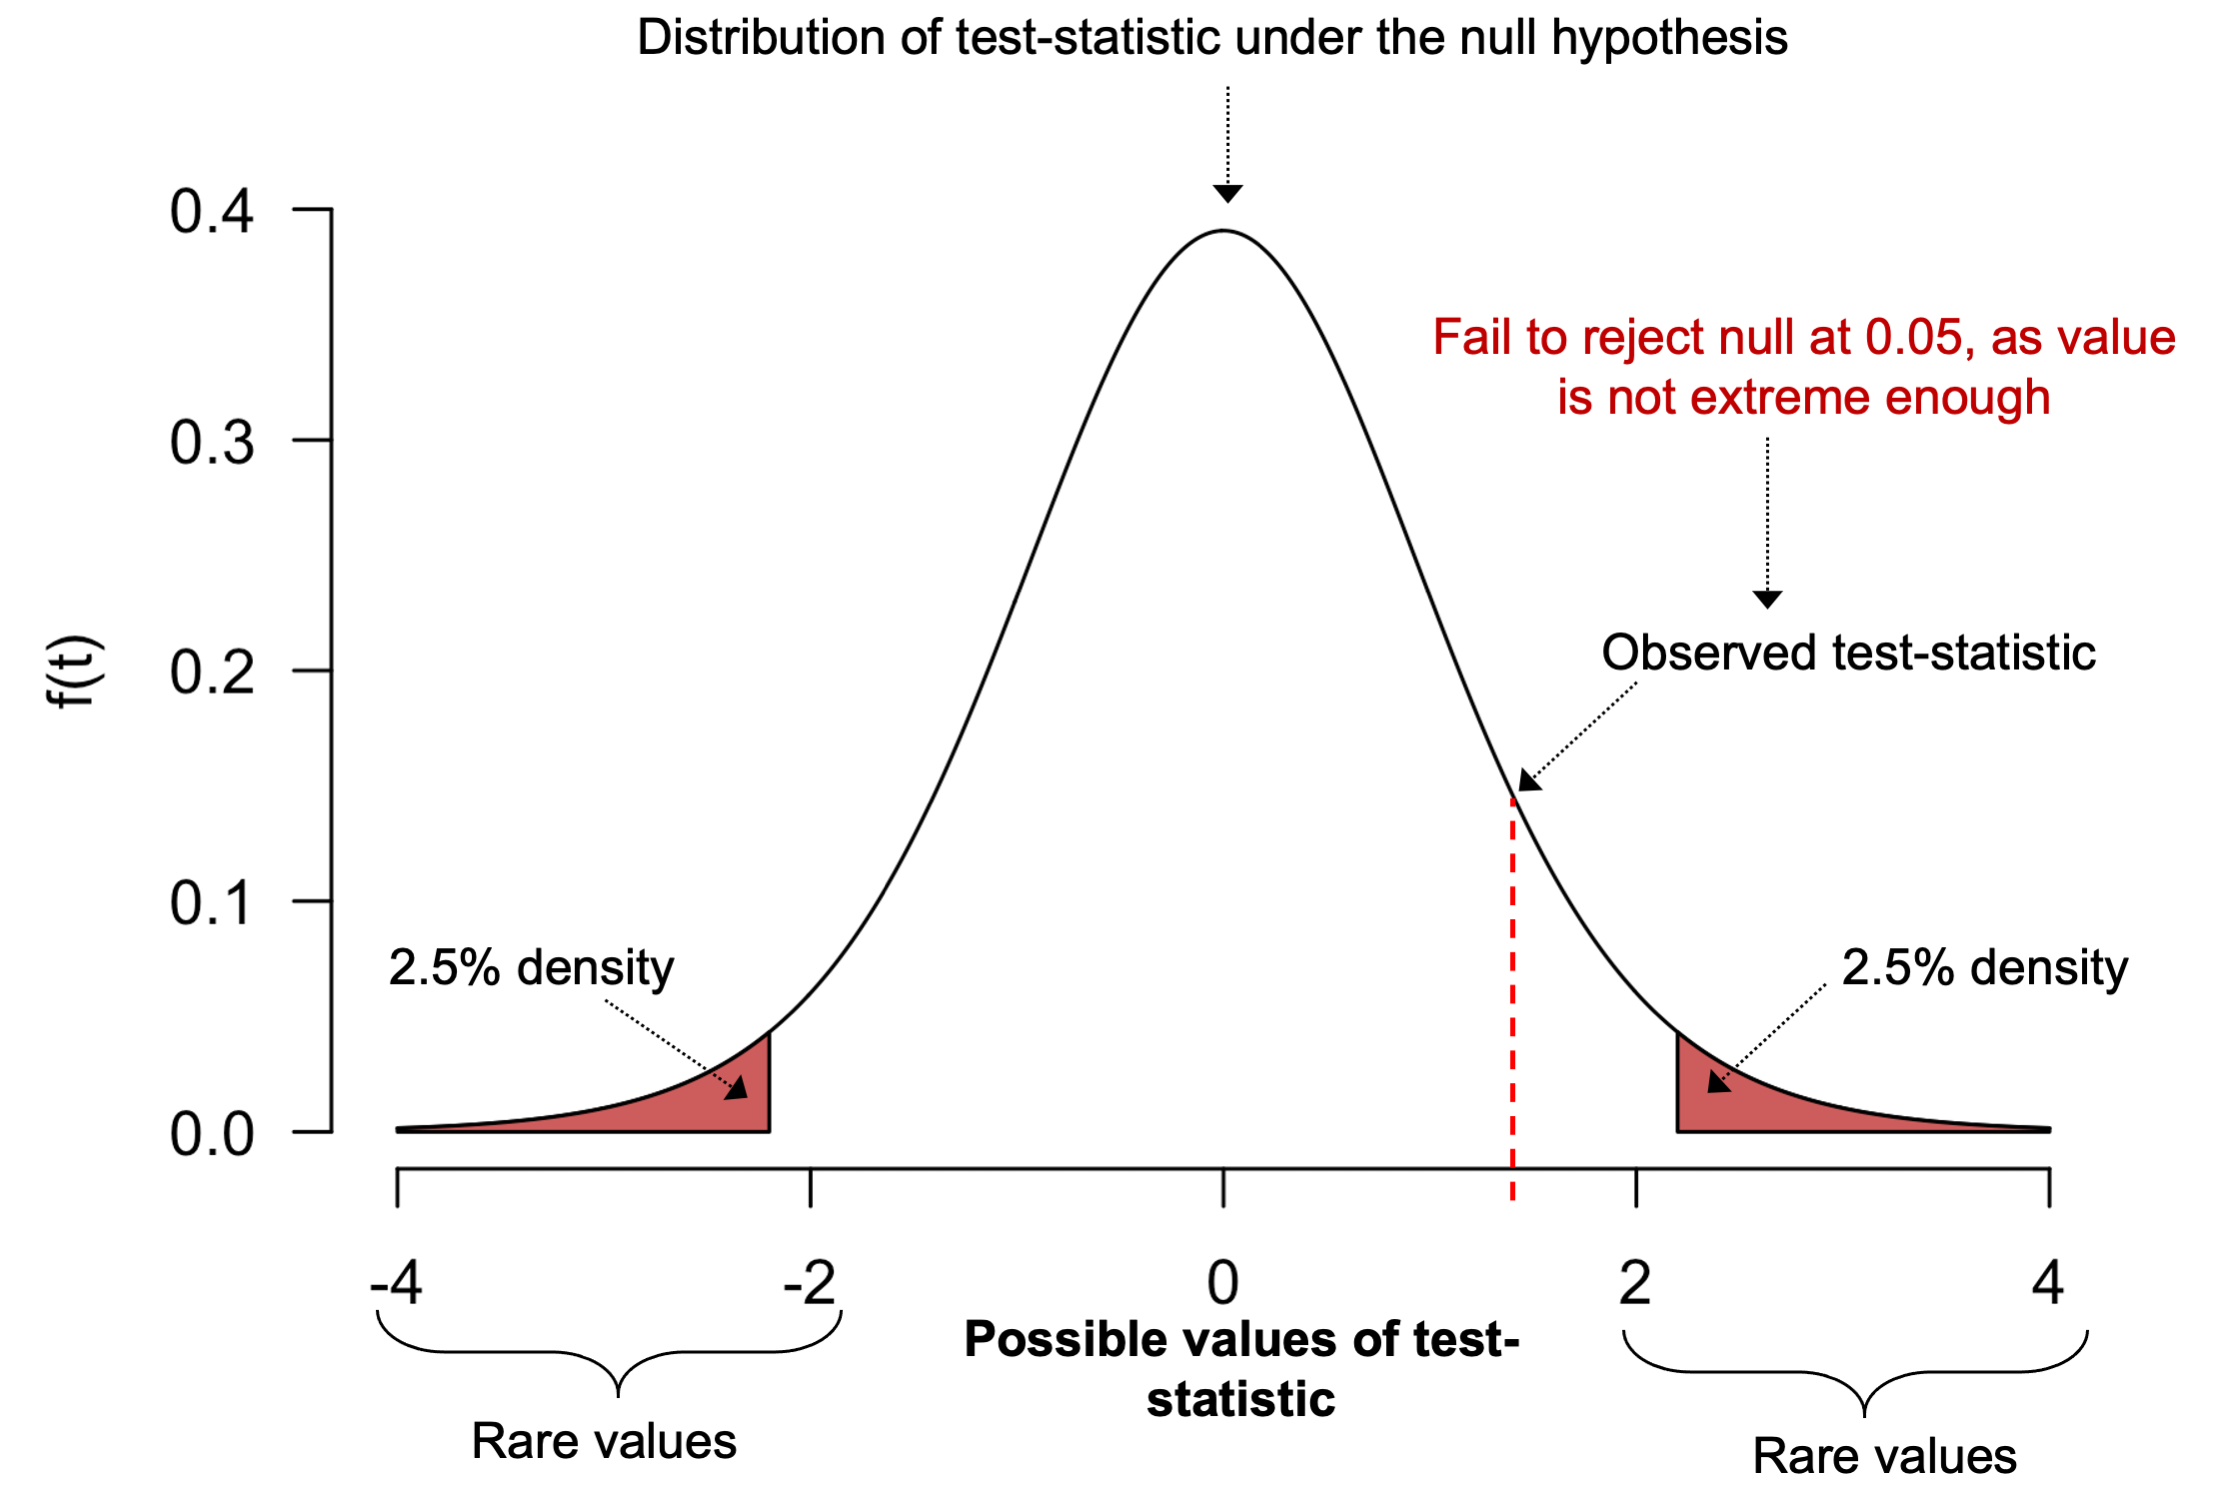
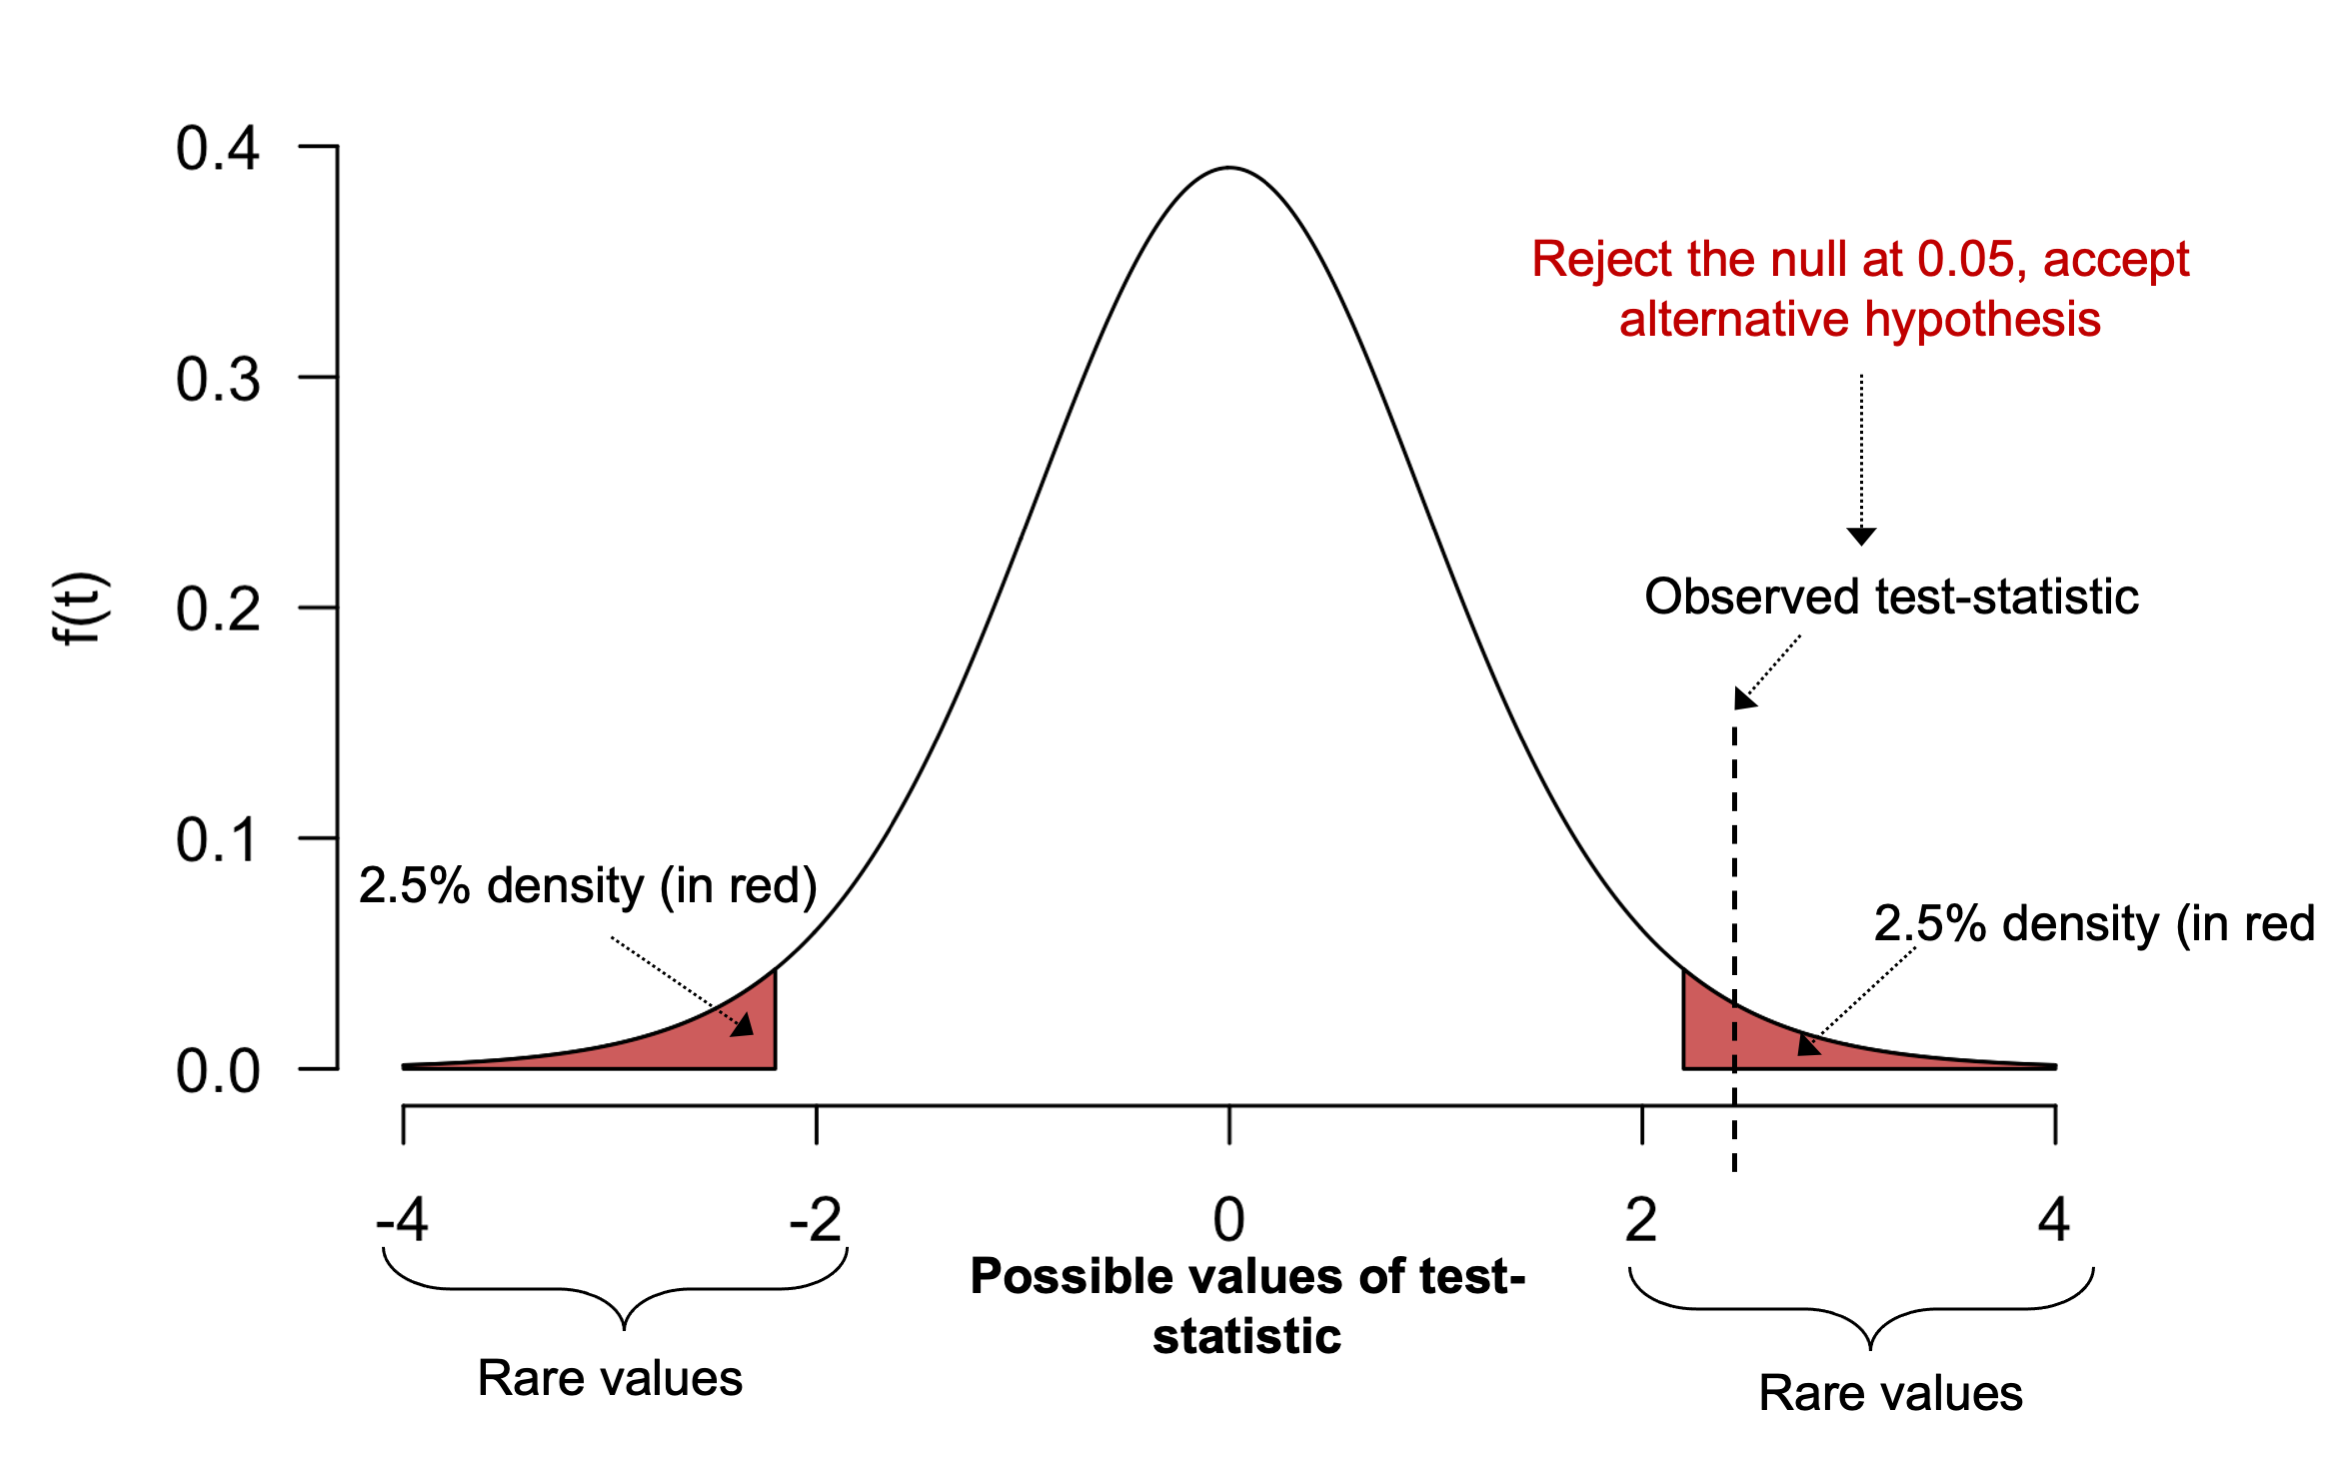
stats

diff --git a/Day-2/02-fundamental-stats-for-DE.md b/Day-2/02-fundamental-stats-for-DE.md
@@ -39,7 +39,7 @@ To help understand this procedure for, some useful definitions:
 - **P-value** - probability of observing data equal to or more extreme than that observed due to chance
 
 
-When performing hypothesis testing, we assume our data come from a distribution with a known area. By calculating quantities from our data (e.g. mean, standard deviation, sample size) we can use this distribution to calculate the **test-statistic**. As defined above, this statistic compares our data to a known distribution and tells us how extreme our result is.
+When performing hypothesis testing, we assume our data come from a distribution with a known area. By calculating quantities from our data (e.g. mean, standard deviation, sample size) we can use this distribution to calculate the **test-statistic**. As defined above, this statistic compares our data to a known distribution and tells us how extreme our result is to the null distribution.
 
 Several types of test-statistics exist, and which one we use depends on the type of data we have and the assumptions we make about it. In the example below, we will use the **t-statistic**, which is based on the **t-distribution** (shown below, similar to a normal dist.).
 
@@ -47,32 +47,54 @@ Several types of test-statistics exist, and which one we use depends on the type
   <img src="../figures/t-dist.png" height="70%" width="70%"/>
 </p>
 
-> ***Degrees of freedom (df)*** represent the number of independent values that can vary in a dataset, and is calculated as the sample size (*N*) - 1. The number of degrees of freedom affects the shape of the t-distribution, as shown in the figure above. 
+> ***Degrees of freedom (df)*** represent the number of independent values that can vary in a dataset, and is calculated as the sample size (*N*) - 1. The number of degrees of freedom affects the shape of the t-distribution, as shown in the figure above.
 
 You can learn more about degrees of freedom [here](https://www.statisticshowto.com/probability-and-statistics/hypothesis-testing/degrees-of-freedom/).
 
-
-Assuming a t-distribution, the **t-statistic** can be calculated using the equation:
+Assuming a t-distribution, the **t-statistic** can be calculated from your dataset using the equation:
 
 *t-statistic* = (*x<sub>i</sub>* - &mu;) / (*s* x sqrt(*n*))
 
-Larger the test-statistic, the further it will be toward the tails of distribution. The tails of the t-distribution contain the least area, therefore obtaining a t-statistic this large simply due to chance is less likely.
+Where:
 
-We can quantify the probability of observing a t-statistic this extreme, we can calculate a **P-value**, defined as *the probability of observing data equal to or more extreme than that observed due to chance*. A table of *'critical values'* can be used to determine if you should reject or accept the null hypothesis at a particular significance level.
+
+
+
+
+
+Placing our test-statistic on the t-distribution (red dotted line in figure below) allows us to see how extreme our result is compared to the null distribution. Larger test-statistics will be further toward the tails of distribution.
 
 <p align="center">
-  <img src="../figures/crit-values.png" height="80%" width="80%"/>
+  <img src="../figures/blank-t.png" height="80%" width="80%"/>
 </p>
 
-Image source: [Statistics How To, online](https://www.statisticshowto.com/tables/t-distribution-table/).
 
-For example, based on the critical values table for the t-distribution shown above, we would need to obtain a t-statistic of at least 2.353 to have a statistically significant finding at a threshold (&alpha;) of 0.05. By setting &alpha; to 0.05, this means we will interpret results as meaningful if they have at most a 5 in 100 probability of being due to chance.
 
-In the below example, the red line indicates a t-statistic that is not extreme enough to be considered statistically significant at 5%.
+To help us decide if the null hypothesis should be rejected or accepted based on this test-statistic, we must calculate a **P-value**, defined as *the probability of observing data equal to or more extreme than that observed due to chance*.
+
+It is sometimes helpful to consider P-values as a %, for example, if you if you have a *P*-value of **0.01**, there is a **1%** chance that your results occurred simply by chance (i.e. randomly). Alternatively, a *P*-value of **0.9** means there is a **90%** chance that this result would be observed by chance.
+
+Visually, the *P*-value is defined as the area under the curve to the right or left of the test-statistic (provided you run a two-tailed test).
+
+<p align="center">
+  <img src="../figures/pvals-example1.png" height="80%" width="80%"/>
+</p>
+
+
+The tails of the t-distribution contain the least area, therefore obtaining a large t-statistic simply due to chance is less likely, suggesting a result is extreme enough to reject the null hypothesis (that no true difference exists between our experimental groups).
+
+If we assume a *P*-value threshold of 0.05 (& a two-tailed test), our test-statistic must be large enough that less than 2.5% of the density under the curve is to the right or left of our this value.
 
 <p align="center">
   <img src="../figures/pvalues.png" height="80%" width="80%"/>
 </p>
+
+In this figure, the test-statistic is large enough that the area under the curve represents a P-value < 0.05, therefore we can reject the null hypothesis and **accept the alternative hypothesis, that a there is significant difference between our comparison groups.**
+
+If the test-statistic was not large enough, and the P-value was >0.05, we would need to accept the null hypothesis that no significant difference exists.
+
+
+
 
 
 > **P-value thresholds:** Although 5% is a commonly used P-value threshold, you can be more or less stringent depending on the nature of your experiment: if you want to be very conservative and restrict your results to few results that are likely to be true positives, you may wish to restrict the results to a more stringent threshold. If your experiment is very preliminary and you care less about capturing some false positives than missing true positives, you may wish to relax your threshold.  
